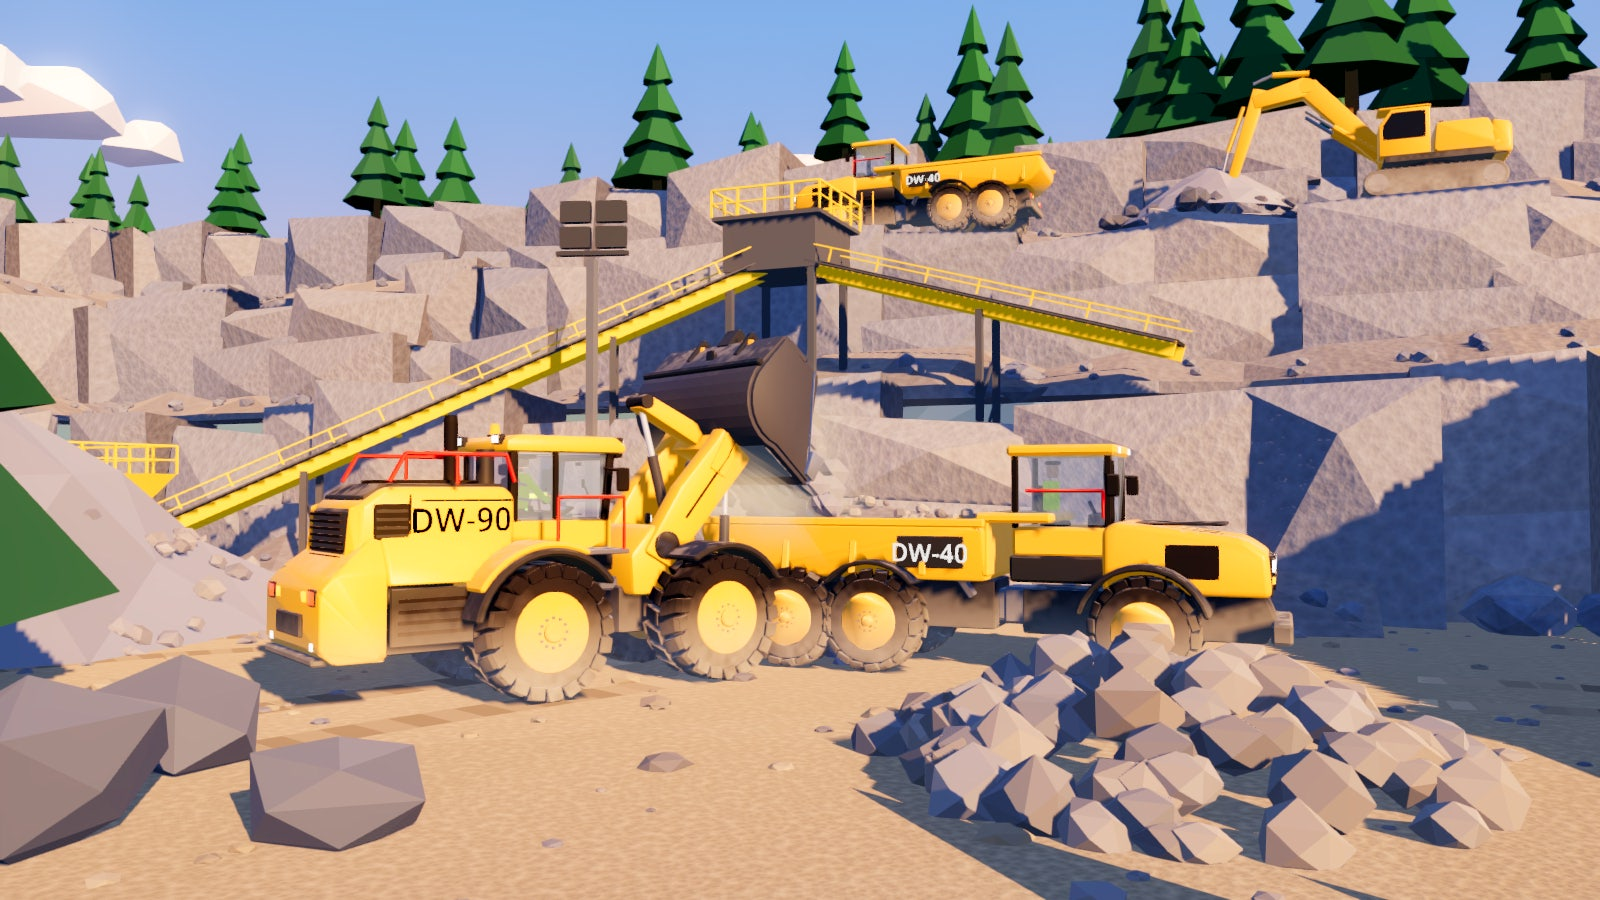
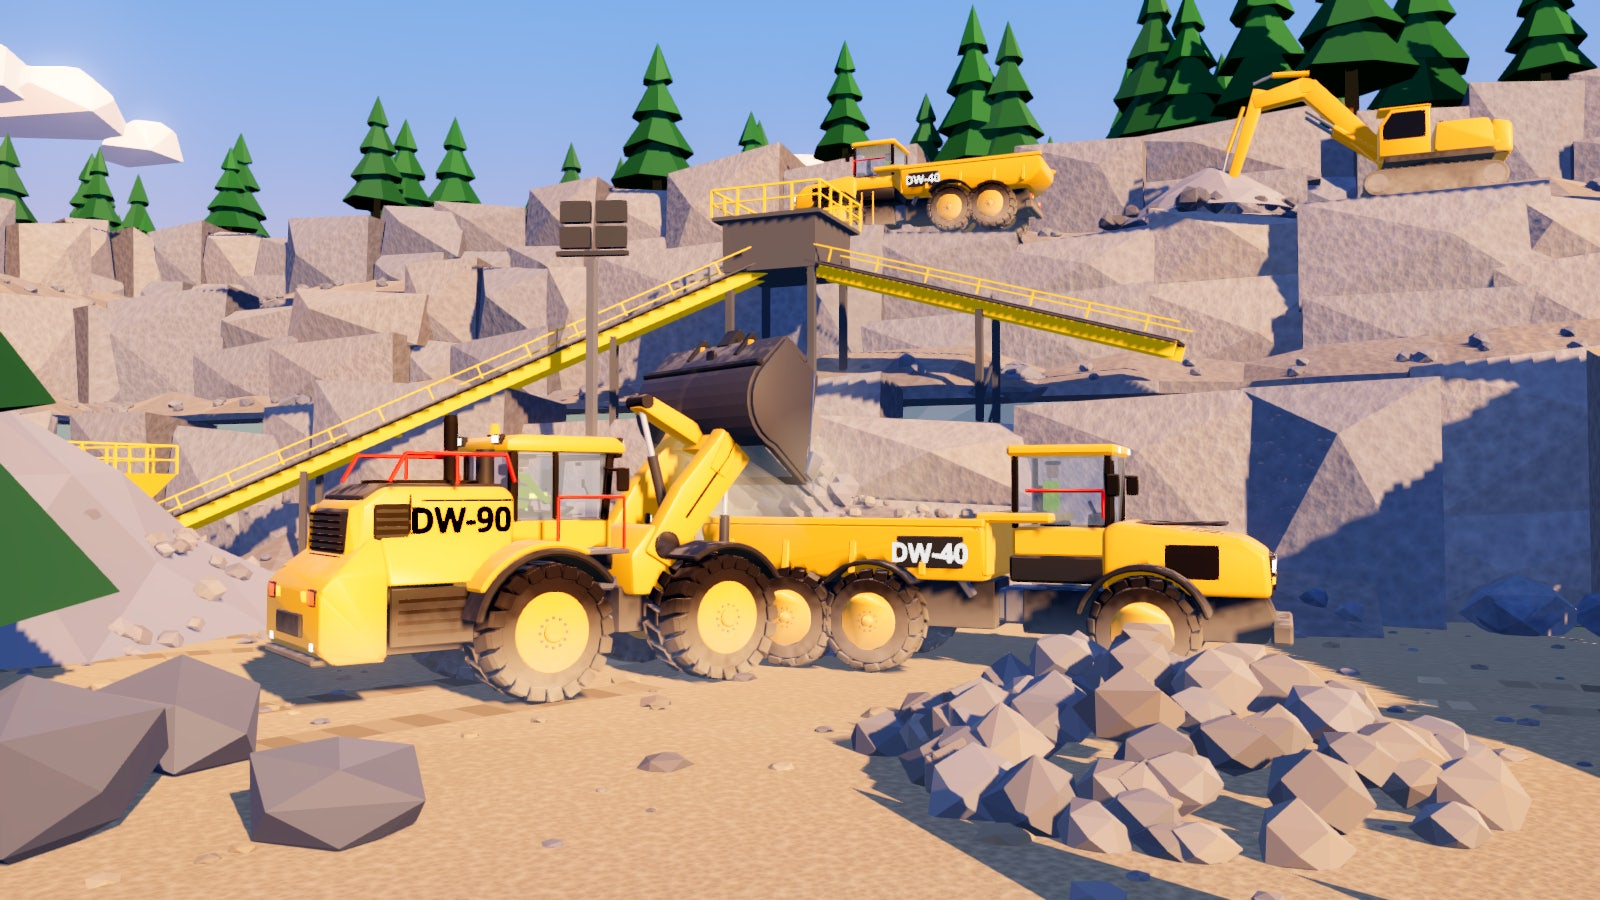
tweak: bold model lettering (same-colour outline) on DW-90/DW-40

diff --git a/tools/gen_wheel_loader.py b/tools/gen_wheel_loader.py
@@ -176,7 +176,7 @@ node("CabFill", "OmniLight3D", C, transform=T(0, 3.35, 0.05), light_color="Color
      light_energy=0.6, omni_range=1.05, shadow_enabled="false")
 for s, n, ry in [(-1, "Left", -math.pi / 2), (1, "Right", math.pi / 2)]:
     node(f"Model{n}", "Label3D", R, transform=T(s * 1.075, 3.0, 2.95, 0, ry, 0), text='"DW-90"', font_size=110,
-         pixel_size=0.005, modulate="Color(0.06, 0.06, 0.07, 1)", outline_size=0, double_sided="false")
+         pixel_size=0.005, modulate="Color(0.06, 0.06, 0.07, 1)", outline_size=14, outline_modulate="Color(0.06, 0.06, 0.07, 1)", double_sided="false")   # same-colour outline = heavy lettering
 node("PlayerInput", "Node", ".", script='ExtResource("2")')
 node("CabControls", "Node", ".", script='ExtResource("18")')
 node("Grime", "Node", ".", script='ExtResource("19")')

diff --git a/tools/gen_hauler.py b/tools/gen_hauler.py
@@ -34,7 +34,7 @@ for n, x, z in wheels:
 for s, n in [(-1, "Left"), (1, "Right")]:
     out += [f'[node name="Model{n}" type="Label3D" parent="."]', f'transform = {T(s * 1.56, 2.3, 1.25, s * math.pi / 2)}',
             'text = "DW-40"', 'font_size = 96', 'pixel_size = 0.005', 'modulate = Color(0.95, 0.95, 0.93, 1)',
-            'outline_size = 0', 'double_sided = false', '']
+            'outline_size = 12', 'outline_modulate = Color(0.95, 0.95, 0.93, 1)', 'double_sided = false', '']
 out += ['[node name="Grime" type="Node" parent="."]', 'script = ExtResource("9")', '']
 open("scenes/vehicles/hauler.tscn", "w").write("\n".join(out))
 print("wrote scenes/vehicles/hauler.tscn")

diff --git a/docs/reviews/2026-11-12-rockfaces/REVIEW.md b/docs/reviews/2026-11-12-rockfaces/REVIEW.md
@@ -9,3 +9,6 @@ Reference: [`docs/image.png`](../../image.png). Its benches are big angular bloc
 
 ## Result
 `hero.jpg`, `overview.jpg`, `bench.jpg`: stepped, broken bench faces with light scree slopes and visible ledges. Tests pass, including the ramp climb.
+
+## Follow-up: heavy model lettering
+The DW-90 and DW-40 labels now have a same-colour outline (14 and 12 px), which gives the bold model lettering of the reference. See `hero.jpg`.
